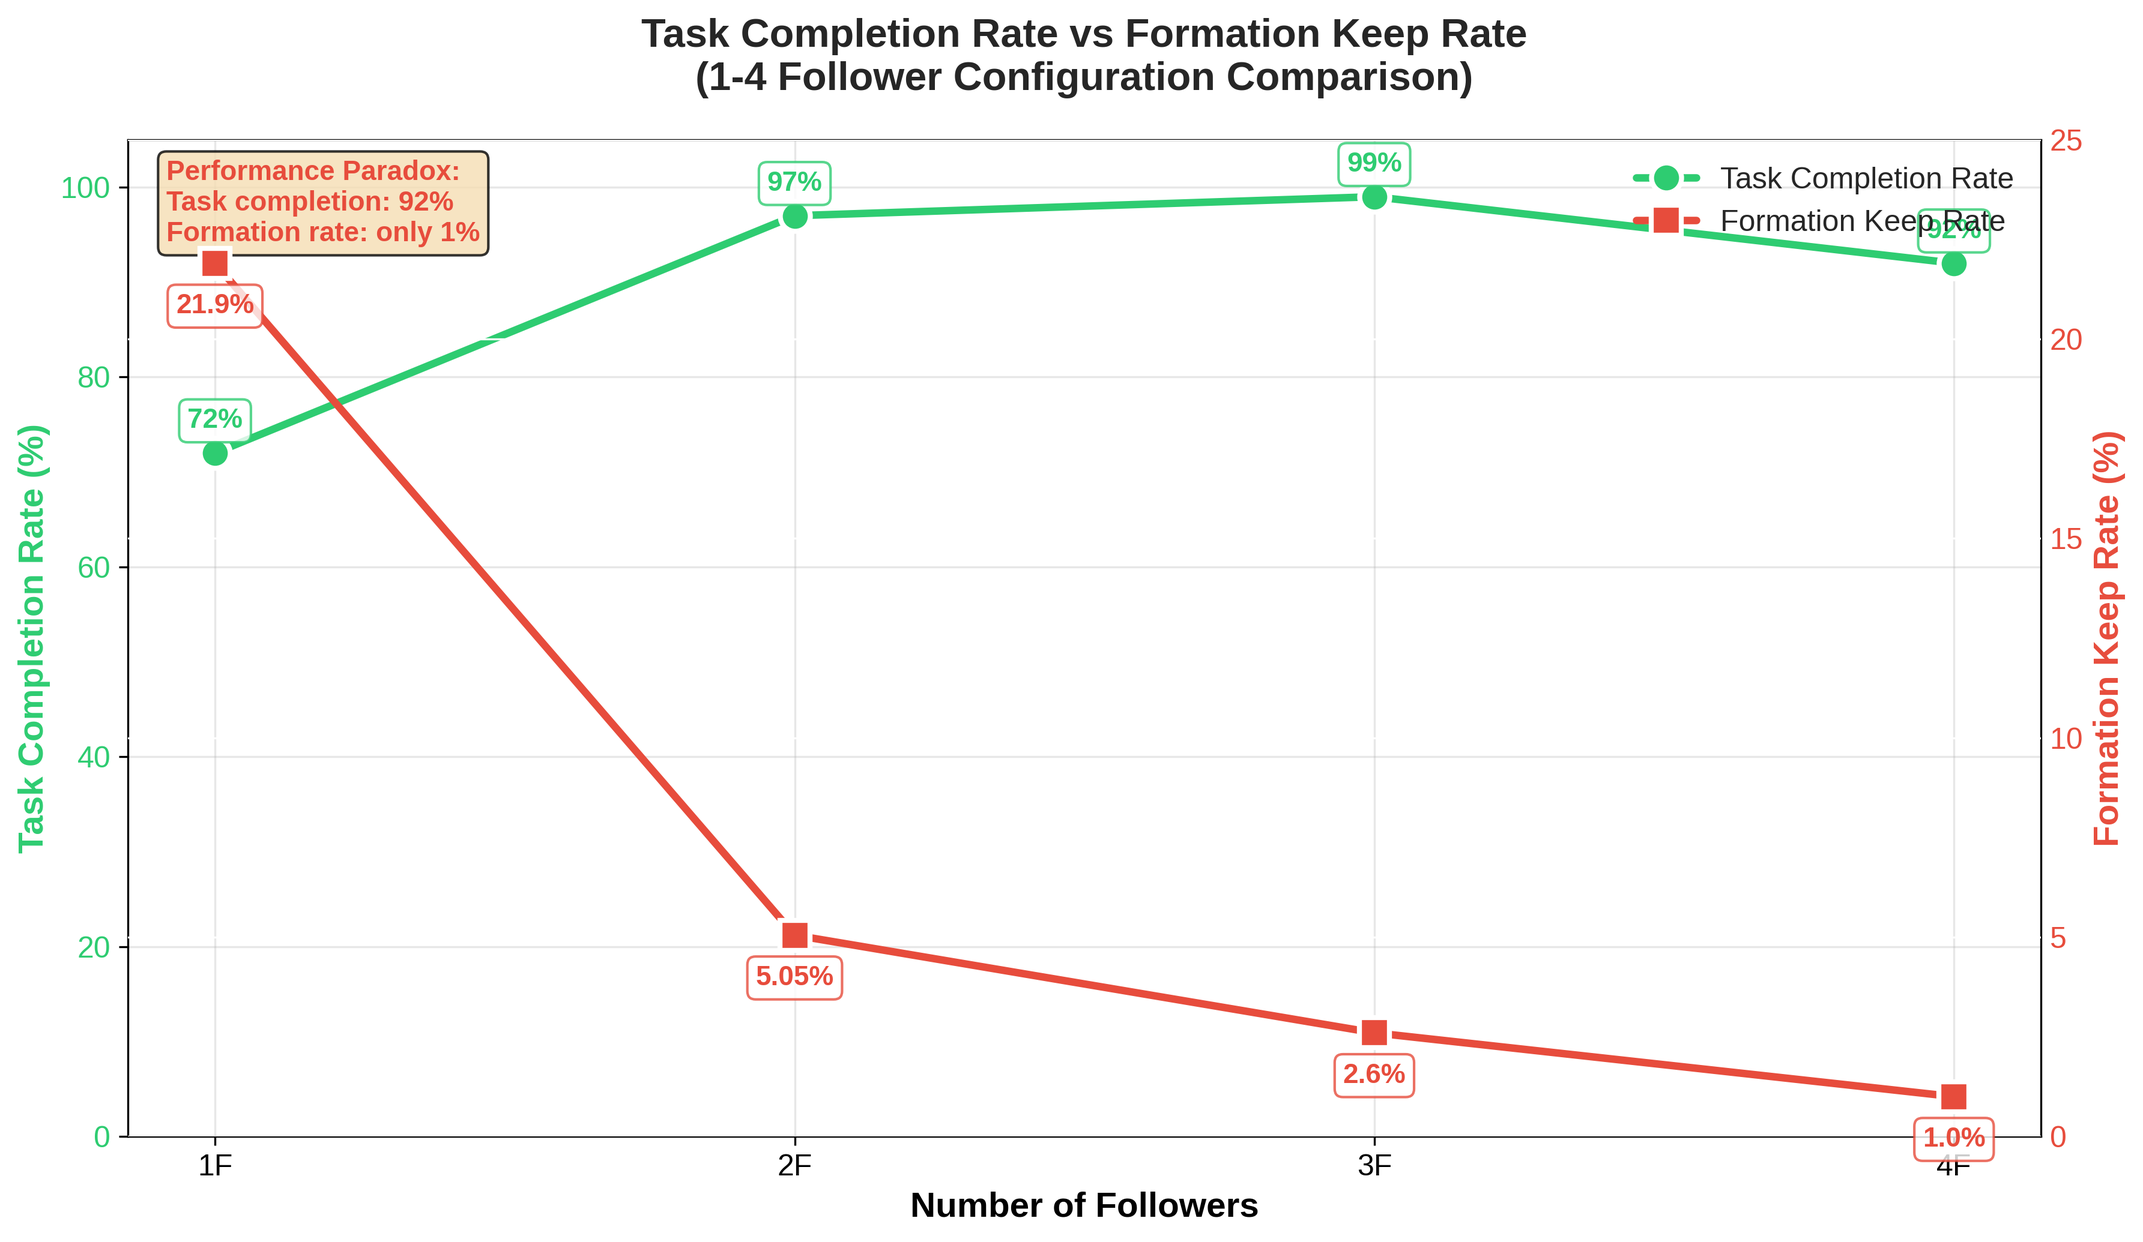
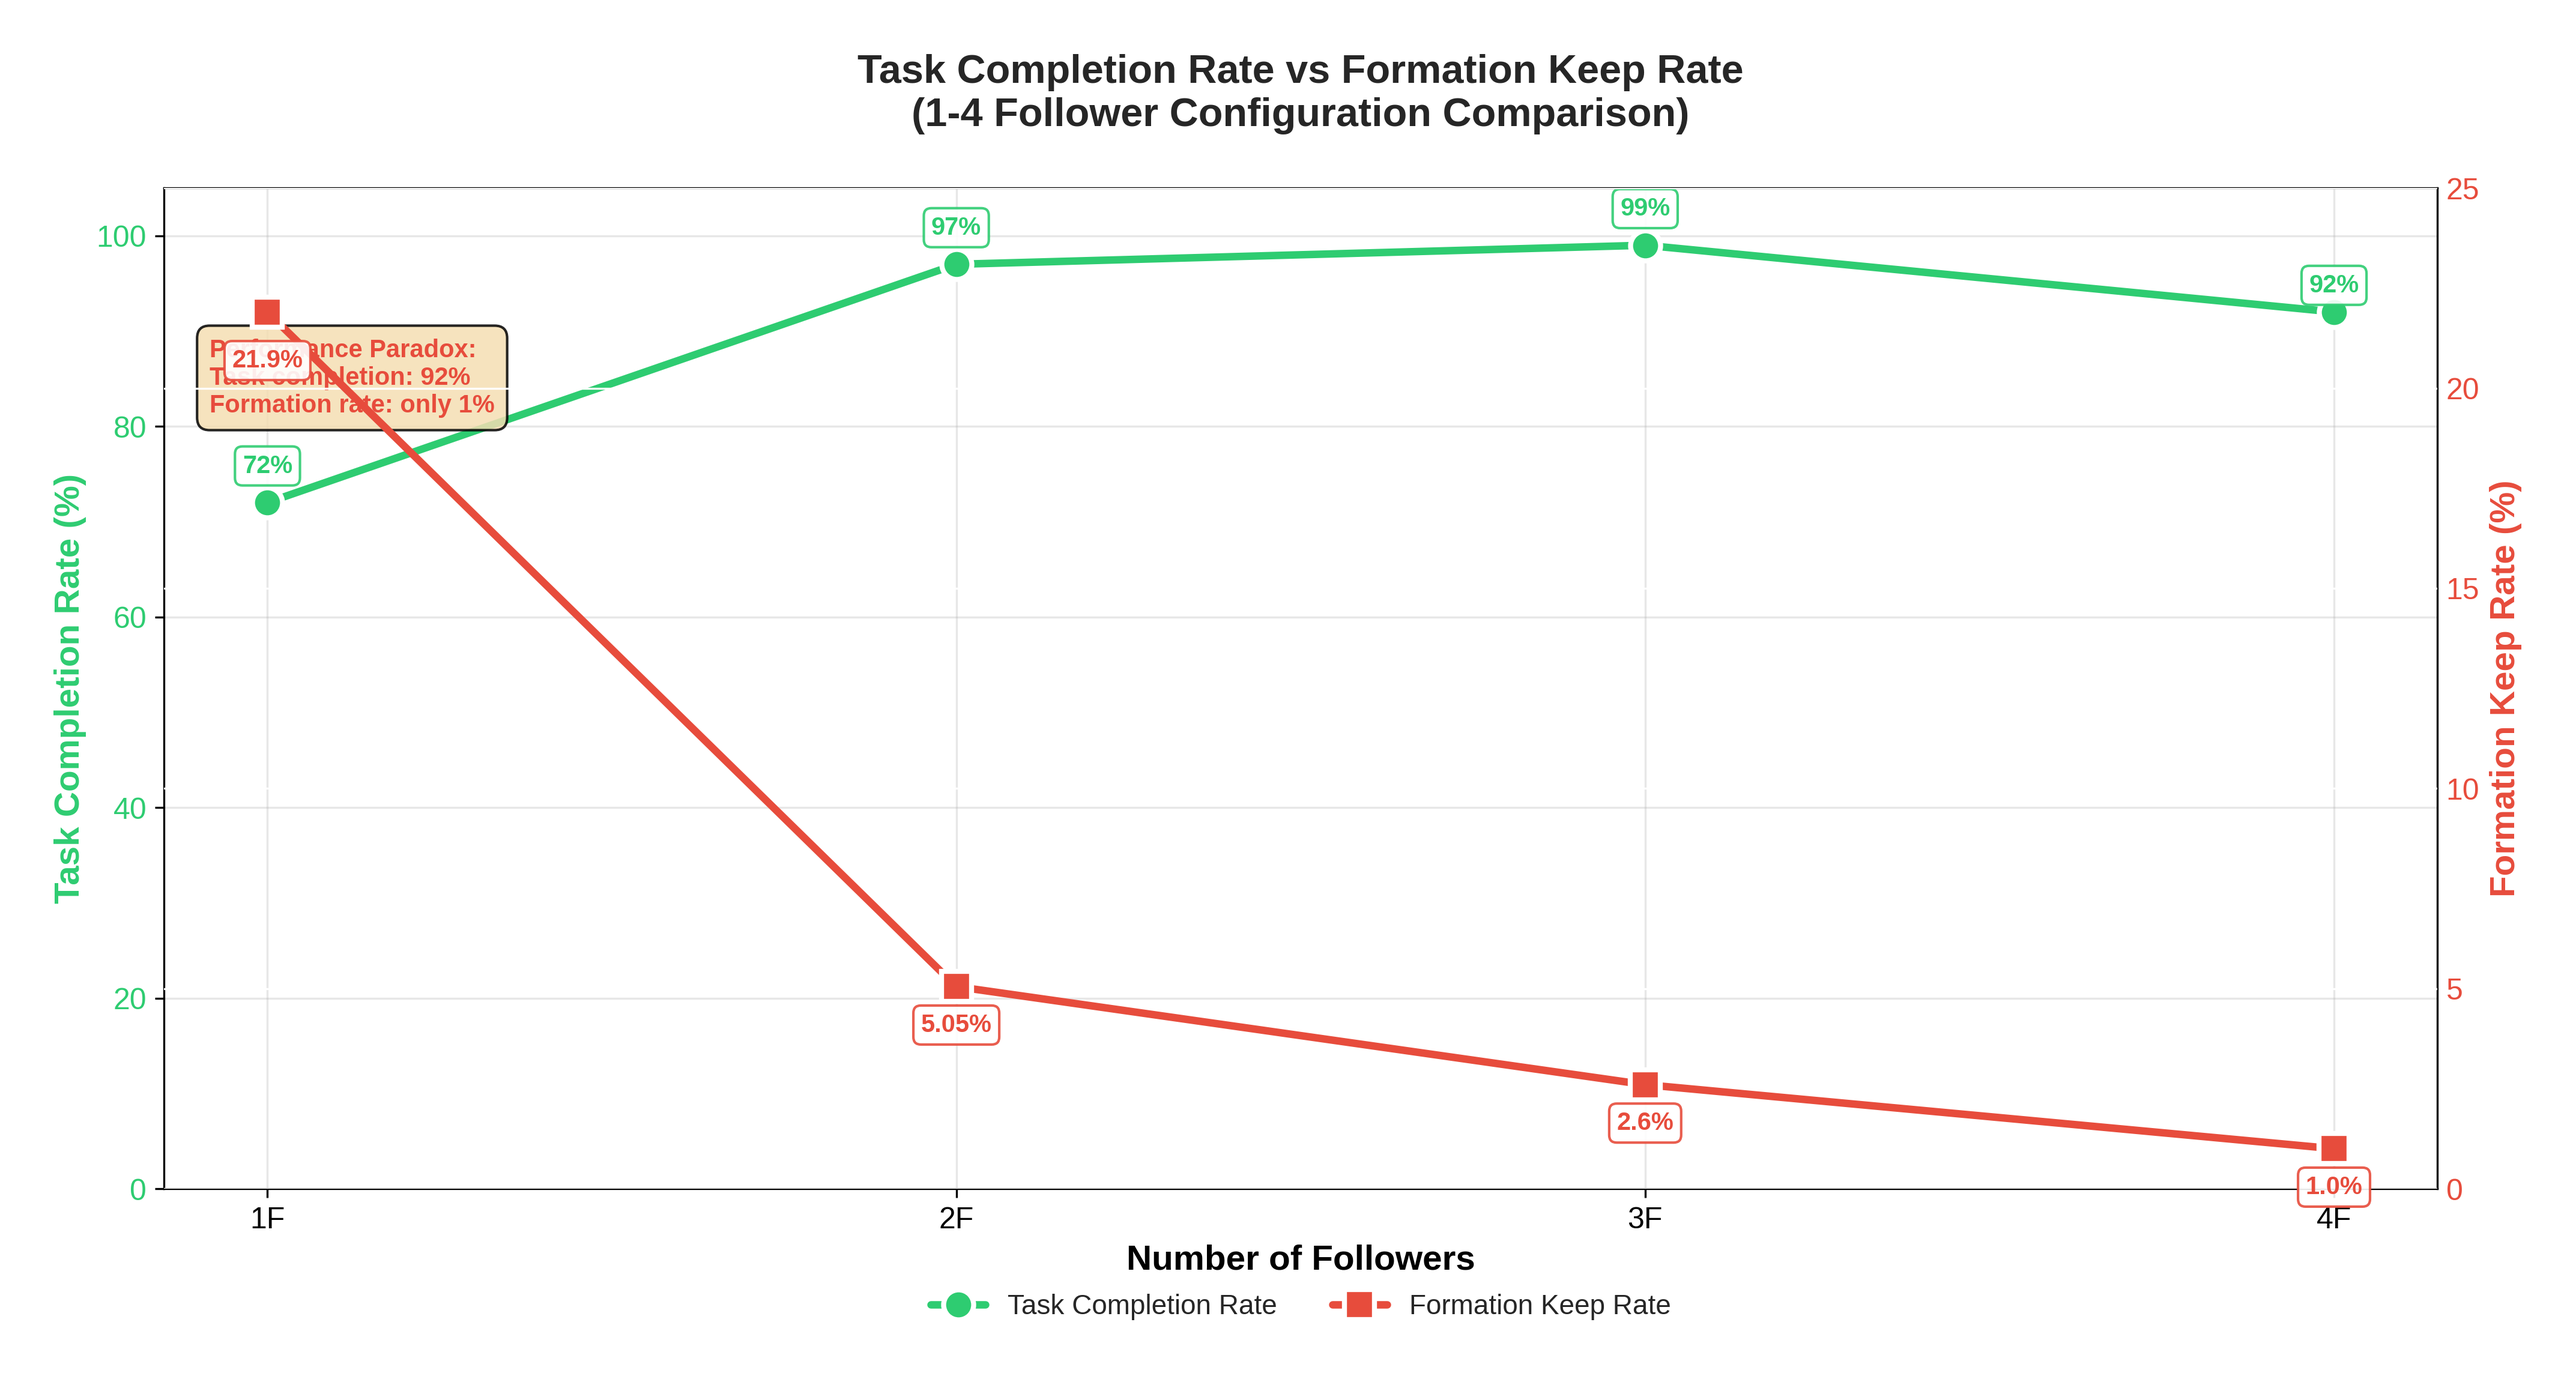
fix: 修复图表中字符重叠问题
- 增加图表尺寸从12x7到14x8
- 调整数据标签位置和偏移量
- 将图例移至图表下方，避免遮挡
- 调整注释框位置
- 增加padding和间距，确保元素不重叠

diff --git a/visualize_formation_rate.py b/visualize_formation_rate.py
@@ -19,10 +19,10 @@ follower_counts = [1, 2, 3, 4]
 task_completion_rates = [72, 97, 99, 92]  # 任务完成率 (%)
 formation_keep_rates = [21.90, 5.05, 2.60, 1.00]  # 编队保持率 (%)
 
-# 创建图表
-fig, ax1 = plt.subplots(figsize=(12, 7), dpi=300)
+# Create figure with larger size to avoid overlap
+fig, ax1 = plt.subplots(figsize=(14, 8), dpi=300)
 
-# 设置样式
+# Set style
 plt.style.use('seaborn-v0_8-darkgrid')
 
 # Plot Task Completion Rate (Left Y-axis)
@@ -38,20 +38,22 @@ ax1.tick_params(axis='x', labelsize=12)
 ax1.set_ylim([0, 105])
 ax1.grid(True, alpha=0.3)
 
-# Add value annotations on data points
+# Add value annotations on data points - adjust positions to avoid overlap
 for i, (x, y) in enumerate(zip(follower_counts, task_completion_rates)):
+    # Adjust vertical offset based on position to avoid overlap
+    y_offset = 12 if i != 3 else 8  # Less offset for 4F to avoid overlap with title
     ax1.annotate(f'{y}%', 
                 xy=(x, y), 
-                xytext=(0, 10),
+                xytext=(0, y_offset),
                 textcoords='offset points',
                 ha='center',
-                fontsize=11,
+                fontsize=10,
                 fontweight='bold',
                 color=color1,
                 bbox=dict(boxstyle='round,pad=0.3', 
                          facecolor='white', 
                          edgecolor=color1, 
-                         alpha=0.8))
+                         alpha=0.9))
 
 # Create right Y-axis for Formation Keep Rate
 ax2 = ax1.twinx()
@@ -64,32 +66,35 @@ line2 = ax2.plot(follower_counts, formation_keep_rates,
 ax2.tick_params(axis='y', labelcolor=color2, labelsize=12)
 ax2.set_ylim([0, 25])
 
-# Add value annotations on data points
+# Add value annotations on data points - adjust positions to avoid overlap
 for i, (x, y) in enumerate(zip(follower_counts, formation_keep_rates)):
+    # Adjust position for each point to avoid overlap
+    y_offset = -22 if i == 0 else -18  # More offset for first point
     ax2.annotate(f'{y}%', 
                 xy=(x, y), 
-                xytext=(0, -20),
+                xytext=(0, y_offset),
                 textcoords='offset points',
                 ha='center',
-                fontsize=11,
+                fontsize=10,
                 fontweight='bold',
                 color=color2,
                 bbox=dict(boxstyle='round,pad=0.3', 
                          facecolor='white', 
                          edgecolor=color2, 
-                         alpha=0.8))
+                         alpha=0.9))
 
-# Add title
+# Add title with more padding
 plt.title('Task Completion Rate vs Formation Keep Rate\n(1-4 Follower Configuration Comparison)', 
-          fontsize=16, fontweight='bold', pad=20)
+          fontsize=16, fontweight='bold', pad=25)
 
-# Merge legends
+# Merge legends - adjust position to avoid overlap
 lines1, labels1 = ax1.get_legend_handles_labels()
 lines2, labels2 = ax2.get_legend_handles_labels()
 ax1.legend(lines1 + lines2, labels1 + labels2, 
-          loc='upper right', fontsize=12, 
+          loc='upper center', fontsize=11, 
           framealpha=0.95, edgecolor='black', 
-          fancybox=True, shadow=True)
+          fancybox=True, shadow=True,
+          bbox_to_anchor=(0.5, -0.08), ncol=2)
 
 # Add grid
 ax1.set_axisbelow(True)
@@ -98,22 +103,22 @@ ax1.set_axisbelow(True)
 ax1.set_xticks(follower_counts)
 ax1.set_xticklabels([f'{n}F' for n in follower_counts])
 
-# Add performance contradiction annotation
-ax1.text(0.02, 0.98, 
+# Add performance contradiction annotation - moved to avoid overlap with legend
+ax1.text(0.02, 0.85, 
          'Performance Paradox:\nTask completion: 92%\nFormation rate: only 1%',
          transform=ax1.transAxes,
-         fontsize=11,
+         fontsize=10,
          verticalalignment='top',
-         bbox=dict(boxstyle='round', facecolor='wheat', alpha=0.8),
+         bbox=dict(boxstyle='round,pad=0.5', facecolor='wheat', alpha=0.85),
          color='#e74c3c',
          fontweight='bold')
 
-# Adjust layout
-plt.tight_layout()
+# Adjust layout with extra space at bottom for legend
+plt.tight_layout(rect=[0, 0.05, 1, 0.98])
 
-# Save figure
+# Save figure with padding to avoid cutting off elements
 output_path = 'formation_rate_comparison.png'
-plt.savefig(output_path, dpi=300, bbox_inches='tight', facecolor='white')
+plt.savefig(output_path, dpi=300, bbox_inches='tight', facecolor='white', pad_inches=0.3)
 print(f"✅ Chart saved to: {output_path}")
 
 # Display figure
@@ -123,7 +128,7 @@ plt.show()
 # Second Chart: Bar Chart Comparison
 # ============================================
 
-fig2, ax = plt.subplots(figsize=(12, 7), dpi=300)
+fig2, ax = plt.subplots(figsize=(14, 8), dpi=300)
 
 x = np.arange(len(follower_counts))
 width = 0.35
@@ -150,10 +155,10 @@ for bar in bars2:
             ha='center', va='bottom', fontsize=11, fontweight='bold')
 
 # Set labels and title
-ax.set_xlabel('Number of Followers', fontsize=14, fontweight='bold')
-ax.set_ylabel('Percentage (%)', fontsize=14, fontweight='bold')
+ax.set_xlabel('Number of Followers', fontsize=14, fontweight='bold', labelpad=10)
+ax.set_ylabel('Percentage (%)', fontsize=14, fontweight='bold', labelpad=10)
 ax.set_title('Task Completion Rate vs Formation Keep Rate\n(Bar Chart Comparison)', 
-            fontsize=16, fontweight='bold', pad=20)
+            fontsize=16, fontweight='bold', pad=25)
 ax.set_xticks(x)
 ax.set_xticklabels([f'{n}F' for n in follower_counts], fontsize=12)
 ax.legend(loc='upper right', fontsize=12, framealpha=0.95, 
@@ -175,11 +180,11 @@ ax.text(1.5, 15, 'Sharp Decline', fontsize=11,
        bbox=dict(boxstyle='round', facecolor='white', alpha=0.8))
 
 # Adjust layout
-plt.tight_layout()
+plt.tight_layout(rect=[0, 0, 1, 0.98])
 
-# Save second chart
+# Save second chart with padding
 output_path2 = 'formation_rate_bar_comparison.png'
-plt.savefig(output_path2, dpi=300, bbox_inches='tight', facecolor='white')
+plt.savefig(output_path2, dpi=300, bbox_inches='tight', facecolor='white', pad_inches=0.3)
 print(f"✅ Chart saved to: {output_path2}")
 
 # Display figure
